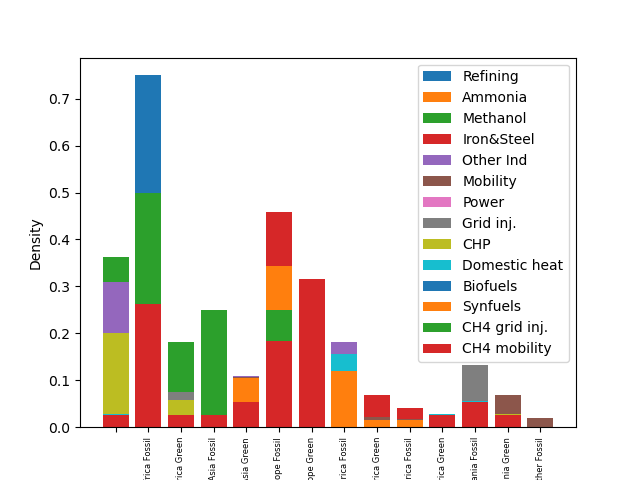
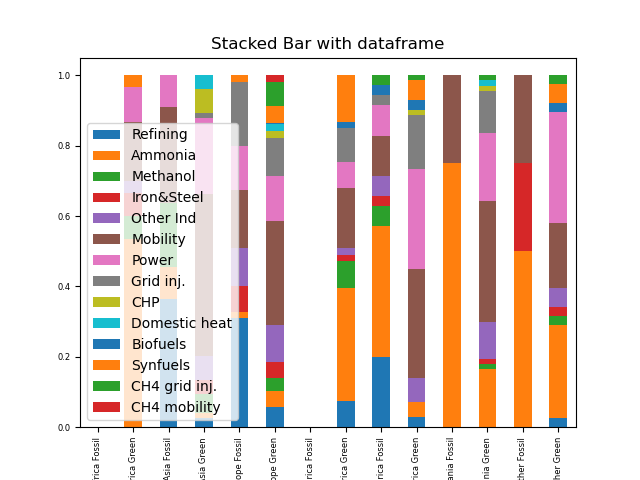
update for stacked bar plot

diff --git a/decade_by_decade_analysis.py b/decade_by_decade_analysis.py
@@ -51,24 +51,36 @@ for i in range(len(continent_unique)):
 # Generate barplot
 norm_distribution_list = []
 for i in range(len(distribution_list)):
-    norm_distribution = np.nan_to_num(distribution_list[i]/np.sum(distribution_list[i]))
-    print("check", np.sum(norm_distribution))
+    norm_distribution = np.nan_to_num(distribution_list[i]/np.sum(np.abs(distribution_list[i])))
     norm_distribution_list.append(norm_distribution)
 
 # Convert to dataframes and merge
-fig, ax=plt.subplots()
-for j in range(len(norm_distribution_list)):
-    ax.bar(names_list, norm_distribution_list[j])
-    ax.set_xticklabels([''] + names_list, fontsize=6, rotation=90)
-plt.legend(["Refining", "Ammonia", "Methanol", "Iron&Steel", "Other Ind", "Mobility",
-                            "Power", "Grid inj.", "CHP", "Domestic heat", "Biofuels", "Synfuels",
-                            "CH4 grid inj.", "CH4 mobility"])
-plt.xlabel("Region / use")
-plt.ylabel("Density")
+norm_distribution_array = np.array(norm_distribution_list).reshape(14,14)
+names_array = np.array(names_list).reshape(14,1)
+merged_array = np.concatenate((names_array, norm_distribution_array),axis=1) # Merge 2 arrays
+df = pd.DataFrame(merged_array, columns=["Geography", "Refining", "Ammonia", "Methanol", "Iron&Steel", "Other Ind", "Mobility",
+                             "Power", "Grid inj.", "CHP", "Domestic heat", "Biofuels", "Synfuels",
+                             "CH4 grid inj.", "CH4 mobility"])
+# Convert to float
+df["Refining"] = df["Refining"].astype(float)
+df["Ammonia"] = df["Ammonia"].astype(float)
+df["Methanol"] = df["Methanol"].astype(float)
+df["Iron&Steel"] = df["Iron&Steel"].astype(float)
+df["Other Ind"] = df["Other Ind"].astype(float)
+df["Mobility"] = df["Mobility"].astype(float)
+df["Power"] = df["Power"].astype(float)
+df["Grid inj."] = df["Grid inj."].astype(float)
+df["CHP"] = df["CHP"].astype(float)
+df["Domestic heat"] = df["Domestic heat"].astype(float)
+df["Biofuels"] = df["Biofuels"].astype(float)
+df["Synfuels"] = df["Synfuels"].astype(float)
+df["CH4 mobility"] = df["CH4 mobility"].astype(float)
+df["CH4 grid inj."] = df["CH4 grid inj."].astype(float)
+
+# Plot distribution of uses
+df.plot(x='Geography', kind='bar', stacked=True, title='Stacked Bar with dataframe', fontsize=6)
 plt.savefig("Stacked_bar_plot")
 plt.show()
-
-#todo check stacked barplot
 
 # Generate distance matrix and then cluster
 dist_matrix_list = []
